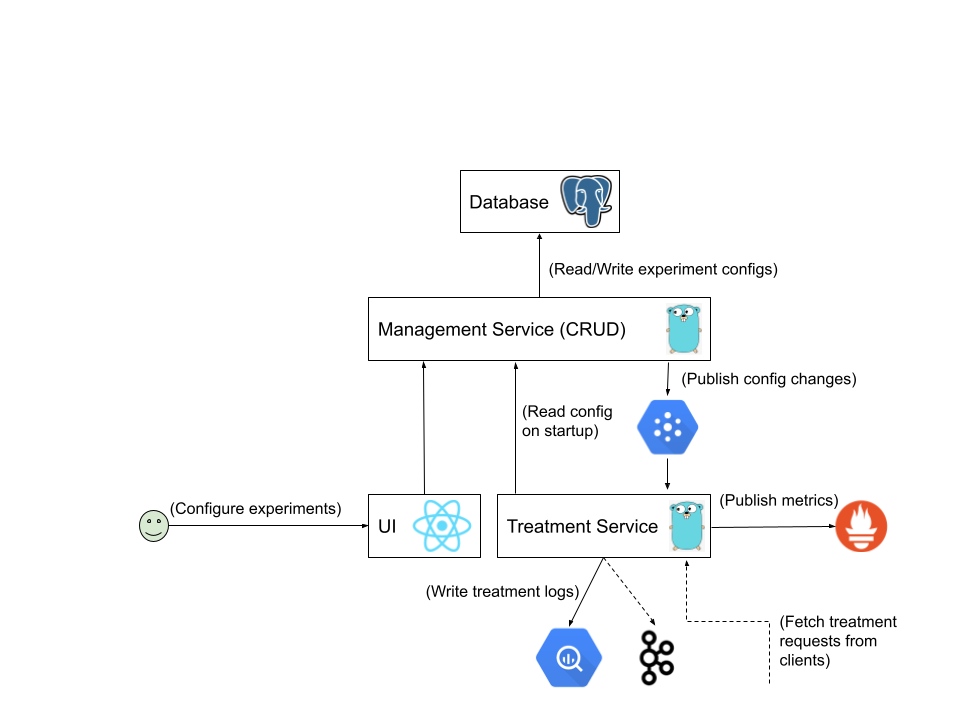
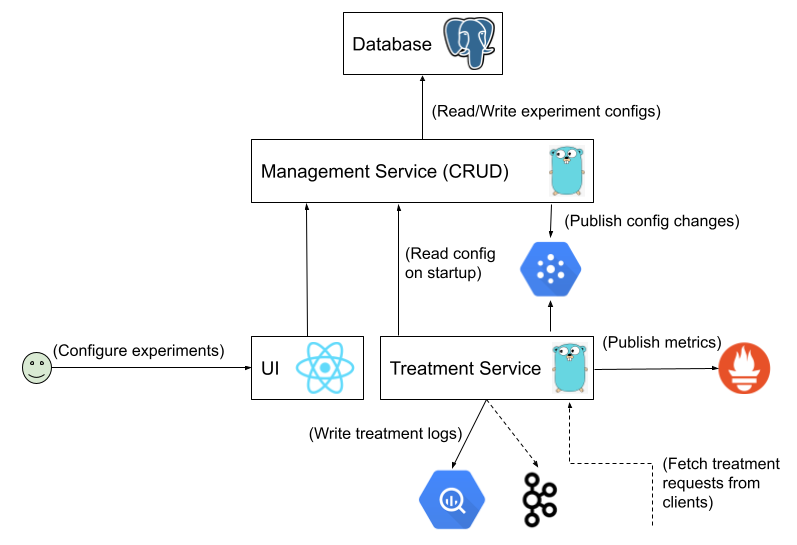
Replace architecture image

diff --git a/README.md b/README.md
@@ -13,7 +13,7 @@ The API is broken down into 2 services:
 
 ### Architecture
 
-The following diagram summarizes the interaction between the various components of the system. The Management service is packaged together with the UI and the Treatment service is published separately - this is so that the treatment service, which is lightweight, can be deployed and made to scale independently.
+The following diagram summarizes the interaction between the various components of the system. The Management service is packaged together with the UI, while the Treatment service is published separately - this is so that the Treatment service, which is lightweight, can be deployed and made to scale independently.
 
 ![XP Architecture](./docs/assets/xp_architecture.png)
 
